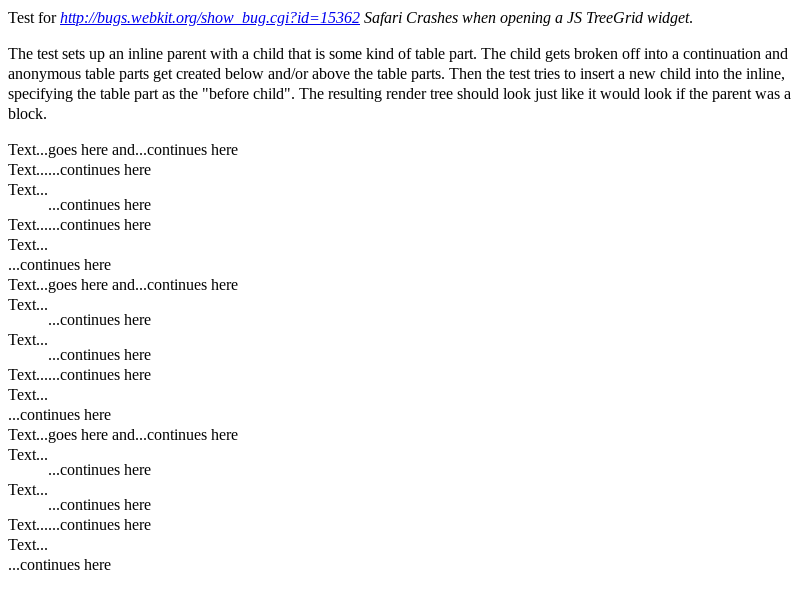
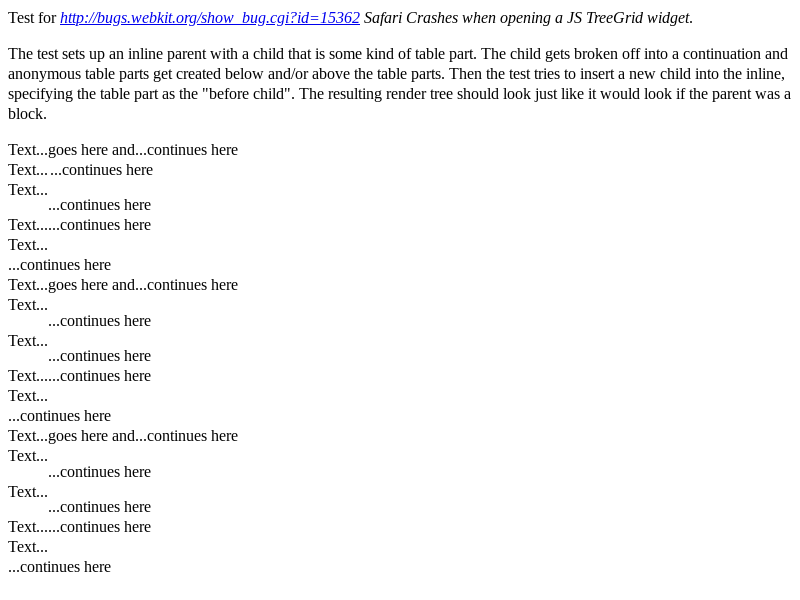
Add padding:1px to <td> and <th> outside tables, per spec
Per spec:
  https://html.spec.whatwg.org/#tables-2
the UA stylesheet should have "td, th { padding: 1px; }". The
stylesheet addition is only applied when the td/th are outside
a <table> element, since padding is taken care of by the table
code in the normal case.

This behavior is tested via this test:
  external/wpt/css/css-tables/html-to-css-mapping-1.html

Fixed: 1406929
Commit-Queue: Xiaocheng Hu <xiaochengh@chromium.org>
Auto-Submit: Mason Freed <masonf@chromium.org>
Cr-Commit-Position: refs/heads/main@{#1098902}

diff --git a/renderer/core/html/resources/html.css b/renderer/core/html/resources/html.css
@@ -289,7 +289,14 @@ tr {
 
 td, th {
     display: table-cell;
-    vertical-align: inherit
+    vertical-align: inherit;
+}
+
+/* When the td/th are inside a table (the normal case), the padding is taken
+   care of by HTMLTableCellElement::AdditionalPresentationAttributeStyle(). */
+td:not(table td),
+th:not(table th) {
+  padding: 1px;
 }
 
 th {

diff --git a/web_tests/fast/css/first-letter-render-quote-expected.html b/web_tests/fast/css/first-letter-render-quote-expected.html
@@ -6,7 +6,7 @@ html, body { margin-left: 0; }
 </style>
 <p>Test passes if no CRASH and you see a quote on one line and a green B on the second line.</p>
 <div class="quote"></div>
-<table cellpadding="0" cellspacing="0">
+<table cellpadding="1" cellspacing="0">
  <tr>
   <td class="green">B</td>
  </tr>
